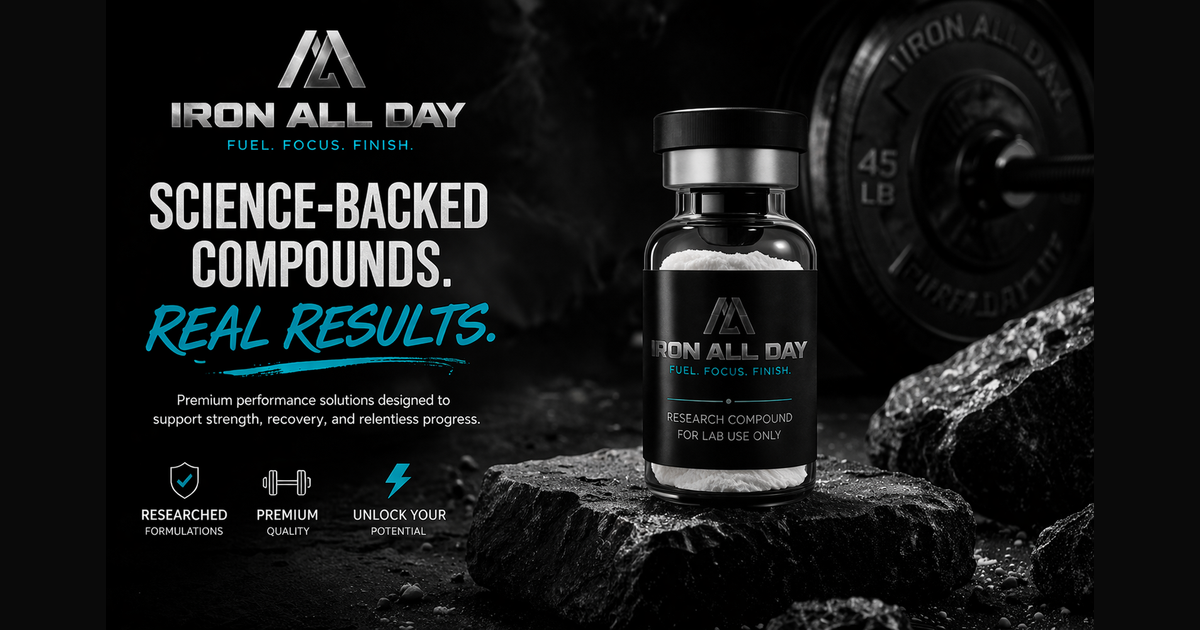
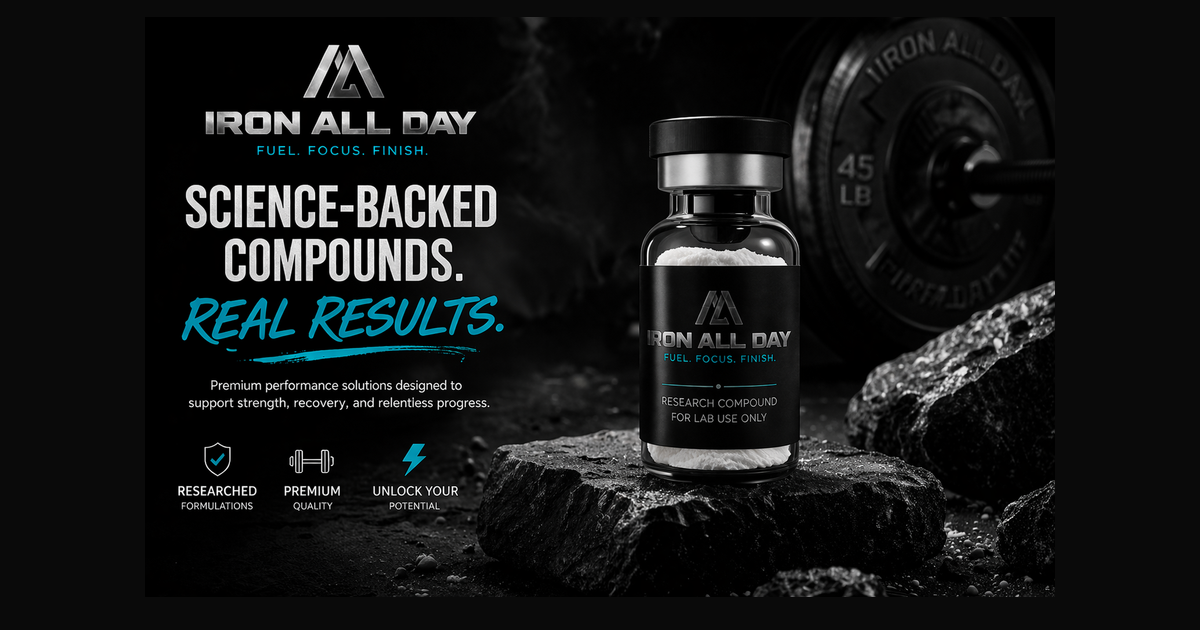
og-card v3: extra bottom padding for X card crop tolerance

diff --git a/app/layout.tsx b/app/layout.tsx
@@ -32,7 +32,7 @@ export const metadata: Metadata = {
     siteName: "Iron All Day",
     images: [
       {
-        url: "https://ironallday.com/images/og-card.png?v=2",
+        url: "https://ironallday.com/images/og-card.png?v=3",
         width: 1200,
         height: 630,
         alt: "Iron All Day — Science-Backed Compounds. Real Results.",
@@ -45,7 +45,7 @@ export const metadata: Metadata = {
     title: "Iron All Day — Fuel. Focus. Finish.",
     description:
       "Science-backed compounds. Real results. Premium performance solutions for strength, recovery, and relentless progress.",
-    images: ["https://ironallday.com/images/og-card.png?v=2"],
+    images: ["https://ironallday.com/images/og-card.png?v=3"],
   },
   icons: {
     icon: [
